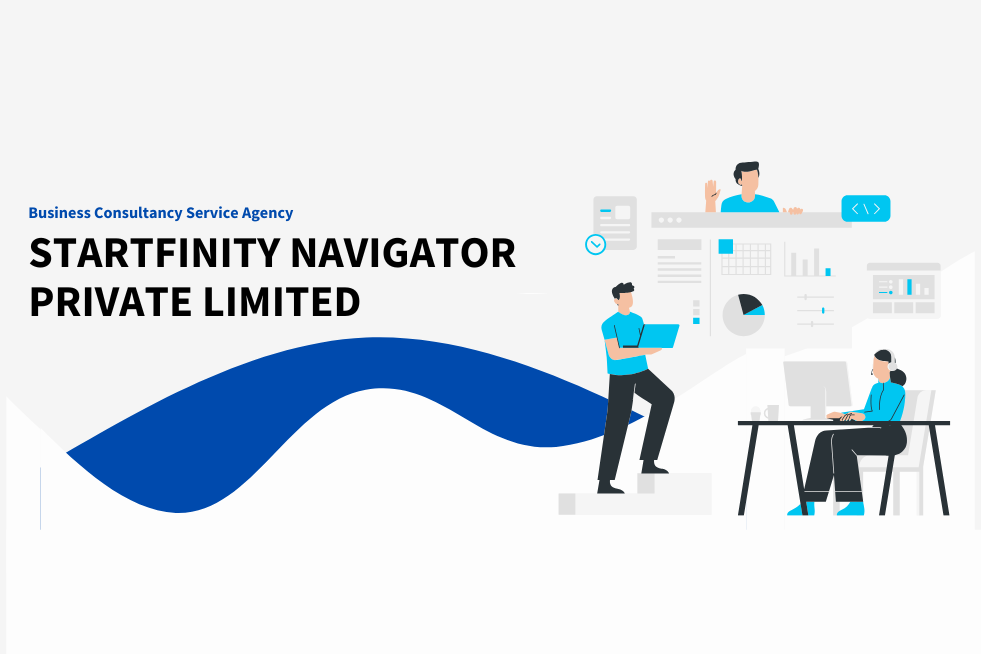
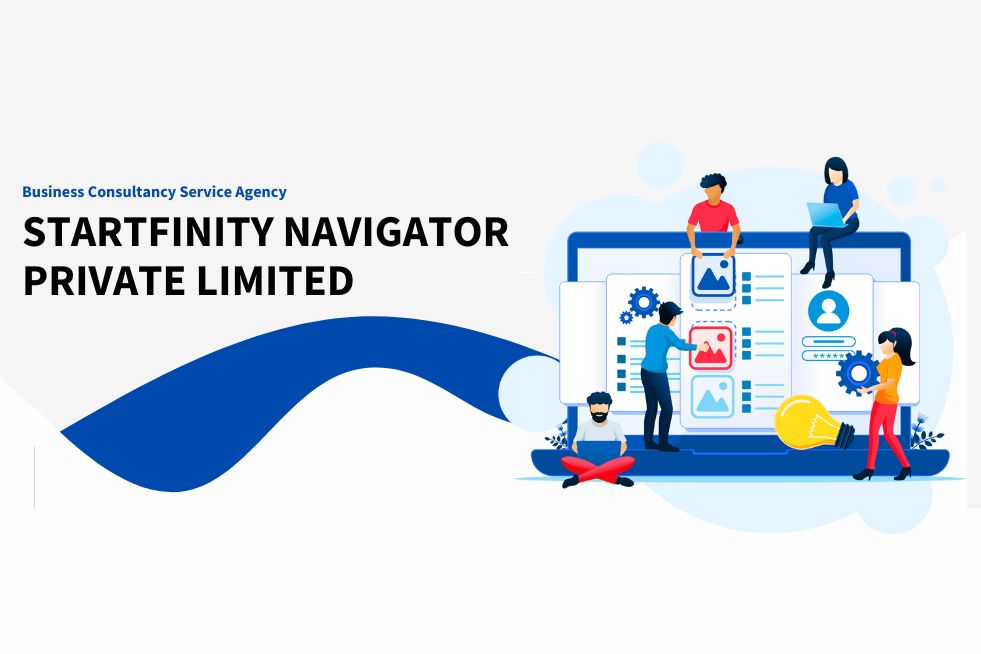
Changed images, final changes of images from my side

Changed region(s): [[0.0, 0.2446, 0.9786, 0.8257]]

diff --git a/src/assets/styles/about.scss b/src/assets/styles/about.scss
@@ -11,7 +11,7 @@
 }
 
 .about-wrapper {
-  background: url('../images/suitman-handwriting.jpg') no-repeat left;
+  background: url('../images/suitman-handwriting.png') no-repeat left;
   background-size: 55%;
   background-color: #fdfdfd;
   overflow: hidden;
